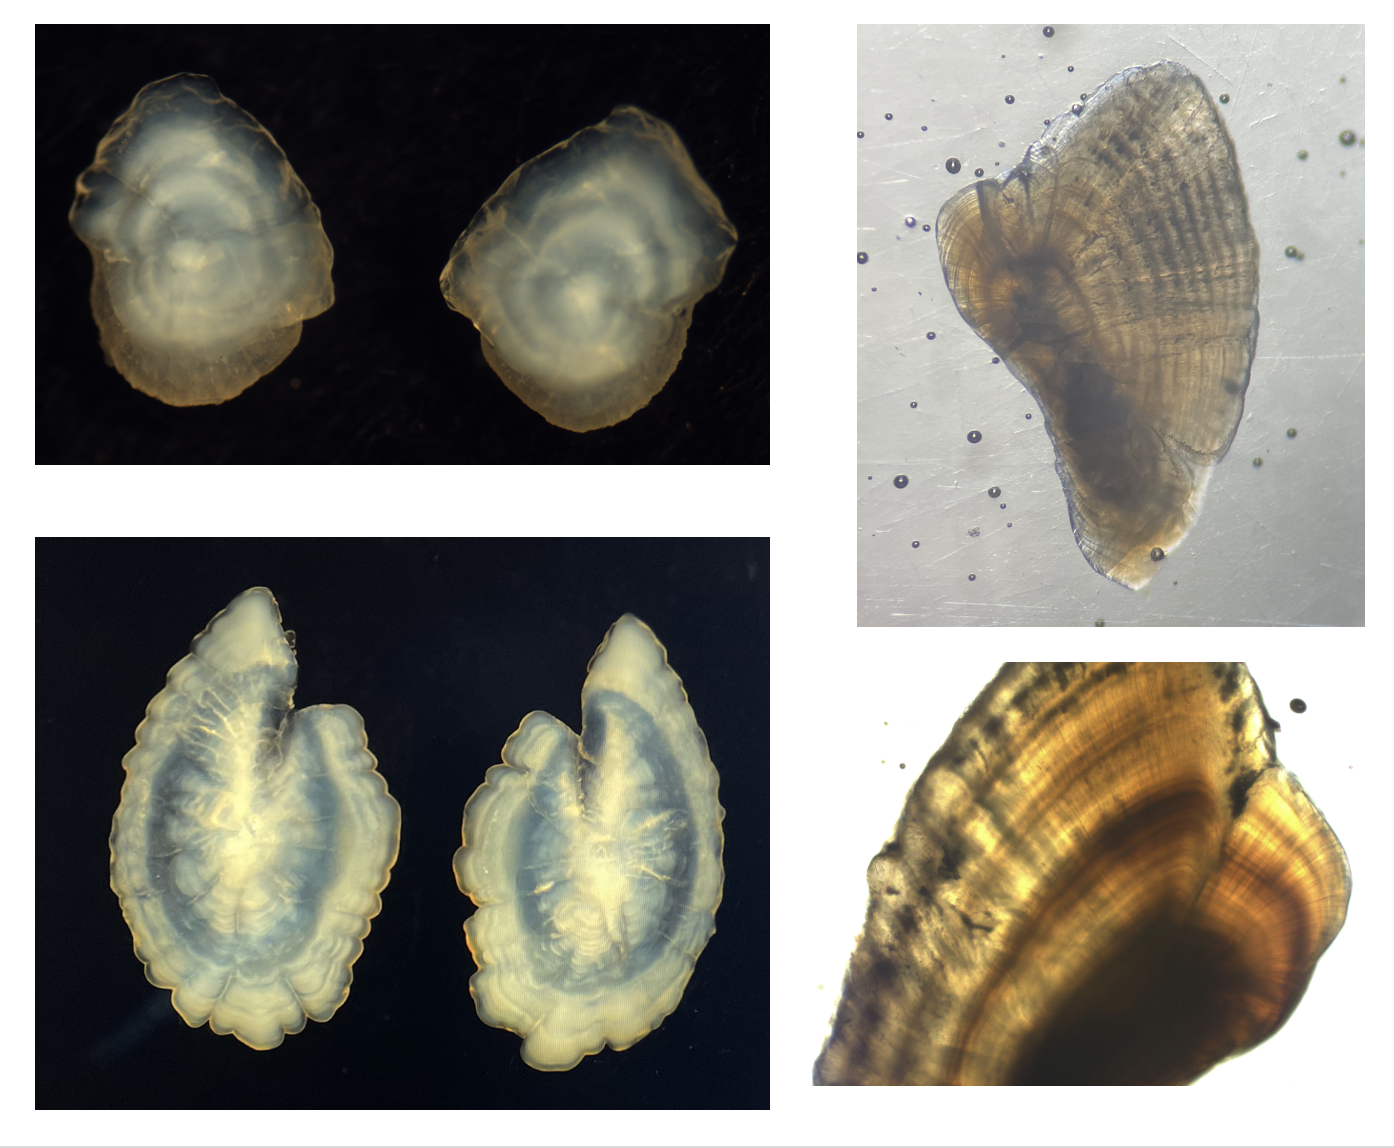
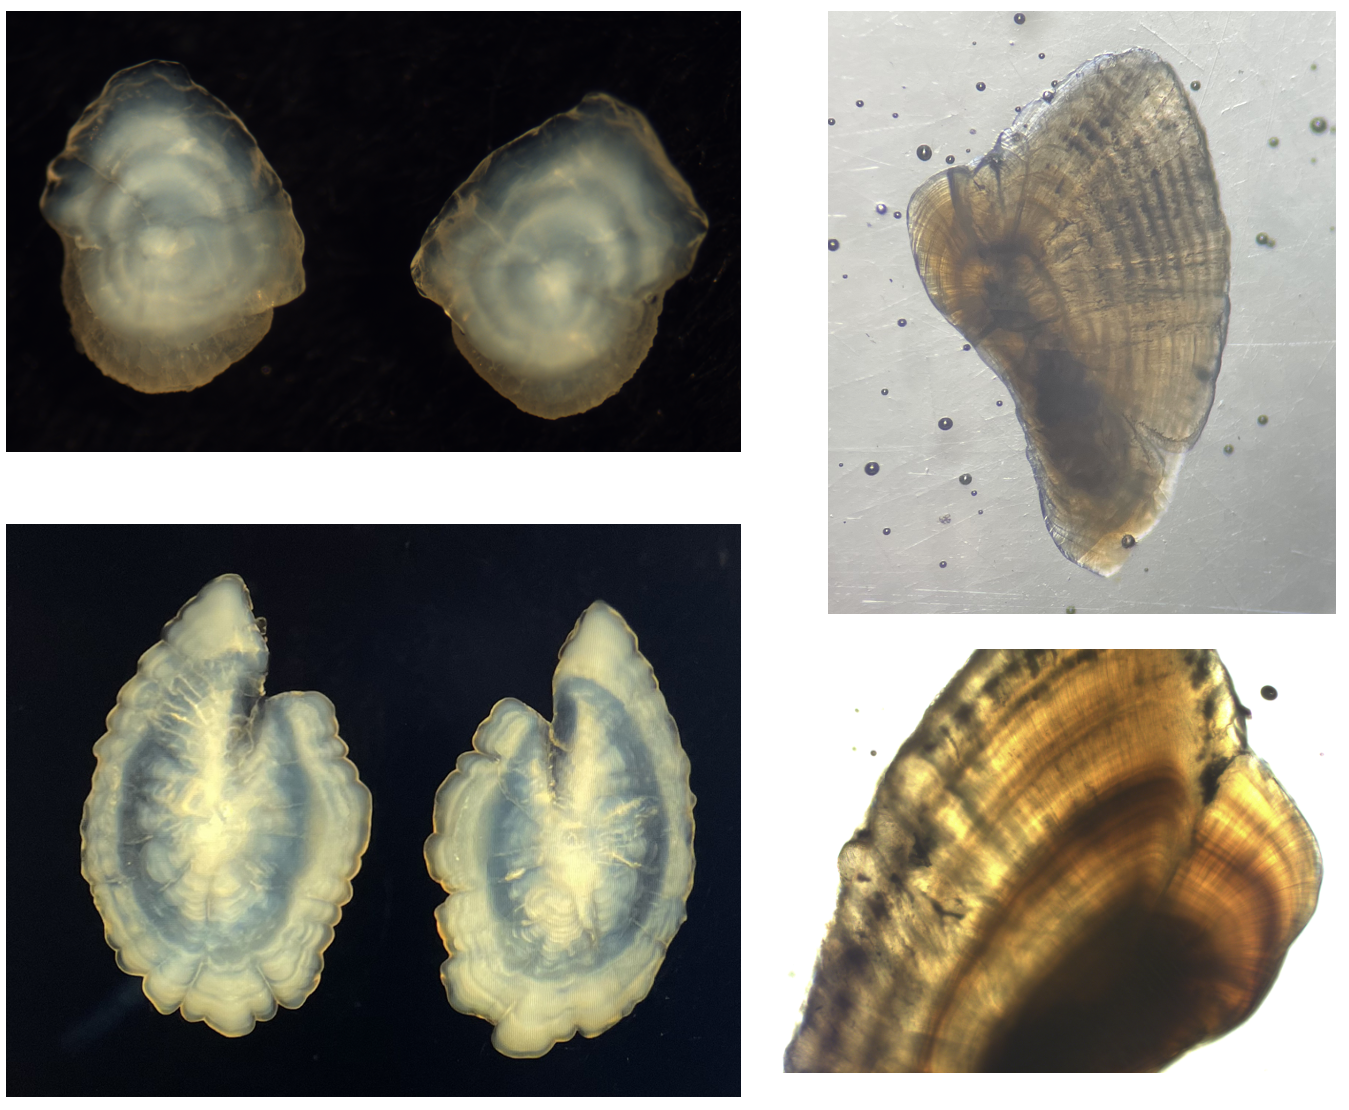
updated research

diff --git a/docs/research.html b/docs/research.html
@@ -2,12 +2,12 @@
 <html xmlns="http://www.w3.org/1999/xhtml" lang="en" xml:lang="en"><head>
 
 <meta charset="utf-8">
-<meta name="generator" content="quarto-1.4.552">
+<meta name="generator" content="quarto-1.6.42">
 
 <meta name="viewport" content="width=device-width, initial-scale=1.0, user-scalable=yes">
 
 
-<title>Jessica Diallo - Current Research</title>
+<title>Current Research – Jessica Diallo</title>
 <style>
 code{white-space: pre-wrap;}
 span.smallcaps{font-variant: small-caps;}
@@ -35,10 +35,10 @@ ul.task-list li input[type="checkbox"] {
 <script src="site_libs/quarto-html/tippy.umd.min.js"></script>
 <script src="site_libs/quarto-html/anchor.min.js"></script>
 <link href="site_libs/quarto-html/tippy.css" rel="stylesheet">
-<link href="site_libs/quarto-html/quarto-syntax-highlighting.css" rel="stylesheet" id="quarto-text-highlighting-styles">
+<link href="site_libs/quarto-html/quarto-syntax-highlighting-2f5df379a58b258e96c21c0638c20c03.css" rel="stylesheet" id="quarto-text-highlighting-styles">
 <script src="site_libs/bootstrap/bootstrap.min.js"></script>
 <link href="site_libs/bootstrap/bootstrap-icons.css" rel="stylesheet">
-<link href="site_libs/bootstrap/bootstrap.min.css" rel="stylesheet" id="quarto-bootstrap" data-mode="light">
+<link href="site_libs/bootstrap/bootstrap-7ad6542725e80d1433b1f8ee26c2a1fc.min.css" rel="stylesheet" append-hash="true" id="quarto-bootstrap" data-mode="light">
 <script id="quarto-search-options" type="application/json">{
   "location": "navbar",
   "copy-button": false,
@@ -83,7 +83,7 @@ ul.task-list li input[type="checkbox"] {
     </a>
   </div>
             <div id="quarto-search" class="" title="Search"></div>
-          <button class="navbar-toggler" type="button" data-bs-toggle="collapse" data-bs-target="#navbarCollapse" aria-controls="navbarCollapse" aria-expanded="false" aria-label="Toggle navigation" onclick="if (window.quartoToggleHeadroom) { window.quartoToggleHeadroom(); }">
+          <button class="navbar-toggler" type="button" data-bs-toggle="collapse" data-bs-target="#navbarCollapse" aria-controls="navbarCollapse" role="menu" aria-expanded="false" aria-label="Toggle navigation" onclick="if (window.quartoToggleHeadroom) { window.quartoToggleHeadroom(); }">
   <span class="navbar-toggler-icon"></span>
 </button>
           <div class="collapse navbar-collapse" id="navbarCollapse">
@@ -102,7 +102,7 @@ ul.task-list li input[type="checkbox"] {
   </li>  
 </ul>
           </div> <!-- /navcollapse -->
-          <div class="quarto-navbar-tools">
+            <div class="quarto-navbar-tools">
 </div>
       </div> <!-- /container-fluid -->
     </nav>
@@ -118,6 +118,7 @@ ul.task-list li input[type="checkbox"] {
   <ul>
   <li><a href="#optimizing-control-of-a-freshwater-invader-in-time-and-space" id="toc-optimizing-control-of-a-freshwater-invader-in-time-and-space" class="nav-link active" data-scroll-target="#optimizing-control-of-a-freshwater-invader-in-time-and-space">Optimizing control of a freshwater invader in time and space</a></li>
   <li><a href="#fish-invaders-invoke-a-lifetime-of-trophic-change-in-native-desert-fishes" id="toc-fish-invaders-invoke-a-lifetime-of-trophic-change-in-native-desert-fishes" class="nav-link" data-scroll-target="#fish-invaders-invoke-a-lifetime-of-trophic-change-in-native-desert-fishes">Fish invaders invoke a lifetime of trophic change in native desert fishes</a></li>
+  <li><a href="#shifting-competition-throughout-ontogeny-between-invasive-and-native-stream-fishes" id="toc-shifting-competition-throughout-ontogeny-between-invasive-and-native-stream-fishes" class="nav-link" data-scroll-target="#shifting-competition-throughout-ontogeny-between-invasive-and-native-stream-fishes">Shifting competition throughout ontogeny between invasive and native stream fishes</a></li>
   <li><a href="#leveraging-pit-tag-data-to-better-understand-northern-pikeminnow-movement-in-the-columbia-river-basin" id="toc-leveraging-pit-tag-data-to-better-understand-northern-pikeminnow-movement-in-the-columbia-river-basin" class="nav-link" data-scroll-target="#leveraging-pit-tag-data-to-better-understand-northern-pikeminnow-movement-in-the-columbia-river-basin">Leveraging PIT tag data to better understand northern pikeminnow movement in the Columbia River Basin</a></li>
   </ul>
 </nav>
@@ -156,7 +157,7 @@ ul.task-list li input[type="checkbox"] {
 </section>
 <section id="fish-invaders-invoke-a-lifetime-of-trophic-change-in-native-desert-fishes" class="level1">
 <h1>Fish invaders invoke a lifetime of trophic change in native desert fishes</h1>
-<p><em>Manuscript in review</em></p>
+<p><em>Manuscript in press (Ecosphere)</em></p>
 <p>Co-author: Julian Olden</p>
 <p><a href="https://fish.uw.edu/2024/01/taking-a-deeper-look-using-fish-eye-lenses-to-explore-invasive-fish-impacts-on-native-fish-communities/">UW Research Spotlight</a></p>
 <p>Invasive fishes modify the structure and function of riverine food webs through their presence and competitive and predatory interactions with native fishes. The degree of trophic plasticity of native fishes at different life stages in response to invaders is unknown. This research provides insight into life-long trends in dietary isotope values using fish eye lenses that grow incrementally and are comprised of metabolically inert, proteinaceous tissue. The findings demonstrate significant shifts in 13C/12C and 15N/14N throughout an individual’s lifetime that vary ontogenetically and differ for native species in native-only versus mixed native-invasive fish assemblages. Trophic level generally increases throughout ontogeny, with native fishes in mixed assemblages displaced to a lower trophic position compared to native-only. Native fish conservation should consider how invasive fishes impact native fishes at multiple life stages, with implications for individual growth and population persistence.</p>
@@ -165,8 +166,19 @@ ul.task-list li input[type="checkbox"] {
 <p>Otoliths from captured fish were used to age the fish and link eye lens layers to fish age and points in time. This is possible using species-specific relationships between fish length and eye lens diameter, fish length and otolith diameter, as well as individual fish measurements of growth (age vs.&nbsp;fish length).</p>
 <p><img src="images/Otoliths.png" title="Otoliths" class="img-fluid"> <em>Roundtail chub lapillar otoliths (top left), green sunfish sagittal otoliths (bottom left), roundtail chub polished lapillar otoliths (top and bottom right). Otolith width ~ 2mm</em></p>
 </section>
+<section id="shifting-competition-throughout-ontogeny-between-invasive-and-native-stream-fishes" class="level1">
+<h1>Shifting competition throughout ontogeny between invasive and native stream fishes</h1>
+<p><em>Manuscript in preparation</em></p>
+<p>Co-author: Julian Olden</p>
+<p>Competition for shared resources within and between species is a powerful force in community ecology. Modern coexistence theory predicts that higher intra-specific, relative to inter-specific, competition results in species coexistence because competitors are self-limiting. However, resource use is rarely constant across animal development; many species experience ontogenetic dietary shifts. Therefore, relative strengths of competition may change throughout ontogeny, leading to a reversal in competitive superiority between two species. Invasive species are often superior competitors due to their generalist feeding habits and high rates of resource exploitation. To quantify competition through ontogeny between invasive and native fishes, we measured isotopic niche overlap of individual lifetime trophic trajectories constructed using fish eye lens stable isotope analysis coupled with otolith growth measurements. We found that invasive green sunfish (Lepomis cyanellus) experienced higher intra-specific isotopic niche overlap through ontogeny relative to inter-specific overlap with three native fish species (Gila robusta, Catostomus insignis, Catostomus clarkii) in Burro Creek, Arizona. These native fish species experienced the highest isotopic niche overlap with green sunfish, known to be a superior competitor. The degree of competition experienced by native species increased through ontogeny, while invasive green sunfish were freed from high interspecific competition at older ages. Our results demonstrate that the coexistence in mixed native-nonnative communities is supported by modern coexistence theory. As invasive species continue to spread and proliferate, contemporary ecological communities are increasingly being managed for coexistence, rather than invader eradication. Understanding how relative competition transforms through ontogeny supports coexistence conservation in native-nonnative communities.</p>
+<p><img src="images/Otolith-eye-combo.jpg" title="Combining otoliths and eyes" class="img-fluid"></p>
+<p><em>Diagram of whole (left) and cross-sectioned (right) green sunfish otolith (top) and eye lens (bottom). Otolith annuli are labeled 1-3 for each year of fish age and growth. Eye lens layers are labeled from the core (1) representing early ontogeny to the outer layer (5) representing activity prior to capture. When processed for δ13C and δ15N stable isotope analysis, the sequence of eye lens layers provide a lifetime trophic trajectory of an individual fish. This is combined with otolith aging measurements to link stable isotope values to fish age. Fish illustration by Duane Raver (Public domain, U.S. Fish and Wildlife Service National Digital Library). Otolith image and all other illustrations by Jessica Diallo.</em></p>
+<p><img src="images/LECY-GIRO_heatmap.jpg" title="Competitive interaction surface" class="img-fluid"></p>
+<p><em>Competitive interaction surface displaying isotopic distance across the lifetimes of focal species roundtail chub (x-axis) and competitor green sunfish (y-axis). Isotopic distance is defined as the squared Mahalanobis distance (D^2), which measures the distance from an individual point to the centroid of the competitor’s isotopic niche in C-N biplot space. Interaction squares represent a month of time and are outlined a shade of grey representing significant niche overlap, or the proportion of the focal species individuals that significantly overlap with the competitor’s isotopic niche based on a chi-square distribution.</em></p>
+</section>
 <section id="leveraging-pit-tag-data-to-better-understand-northern-pikeminnow-movement-in-the-columbia-river-basin" class="level1">
 <h1>Leveraging PIT tag data to better understand northern pikeminnow movement in the Columbia River Basin</h1>
+<p><em>Manuscript in preparation</em></p>
 <p>Co-authors: Beth Sanderson<sup>1</sup>, Katie Barnas<sup>1</sup>, Jim Faulkner<sup>1</sup>, Grant Waltz<sup>2</sup>, Eric Winther<sup>3</sup>, and Julian Olden<sup>4</sup><br>
 1: NOAA Northwest Fisheries Science Center<br>
 2: Oregon Department of Fish and Wildlife<br>
@@ -219,18 +231,7 @@ window.document.addEventListener("DOMContentLoaded", function (event) {
     }
     return false;
   }
-  const clipboard = new window.ClipboardJS('.code-copy-button', {
-    text: function(trigger) {
-      const codeEl = trigger.previousElementSibling.cloneNode(true);
-      for (const childEl of codeEl.children) {
-        if (isCodeAnnotation(childEl)) {
-          childEl.remove();
-        }
-      }
-      return codeEl.innerText;
-    }
-  });
-  clipboard.on('success', function(e) {
+  const onCopySuccess = function(e) {
     // button target
     const button = e.trigger;
     // don't keep focus
@@ -262,7 +263,27 @@ window.document.addEventListener("DOMContentLoaded", function (event) {
     }, 1000);
     // clear code selection
     e.clearSelection();
+  }
+  const getTextToCopy = function(trigger) {
+      const codeEl = trigger.previousElementSibling.cloneNode(true);
+      for (const childEl of codeEl.children) {
+        if (isCodeAnnotation(childEl)) {
+          childEl.remove();
+        }
+      }
+      return codeEl.innerText;
+  }
+  const clipboard = new window.ClipboardJS('.code-copy-button:not([data-in-quarto-modal])', {
+    text: getTextToCopy
   });
+  clipboard.on('success', onCopySuccess);
+  if (window.document.getElementById('quarto-embedded-source-code-modal')) {
+    const clipboardModal = new window.ClipboardJS('.code-copy-button[data-in-quarto-modal]', {
+      text: getTextToCopy,
+      container: window.document.getElementById('quarto-embedded-source-code-modal')
+    });
+    clipboardModal.on('success', onCopySuccess);
+  }
     var localhostRegex = new RegExp(/^(?:http|https):\/\/localhost\:?[0-9]*\//);
     var mailtoRegex = new RegExp(/^mailto:/);
       var filterRegex = new RegExp('/' + window.location.host + '/');
@@ -270,7 +291,7 @@ window.document.addEventListener("DOMContentLoaded", function (event) {
         return filterRegex.test(href) || localhostRegex.test(href) || mailtoRegex.test(href);
     }
     // Inspect non-navigation links and adorn them if external
- 	var links = window.document.querySelectorAll('a[href]:not(.nav-link):not(.navbar-brand):not(.toc-action):not(.sidebar-link):not(.sidebar-item-toggle):not(.pagination-link):not(.no-external):not([aria-hidden]):not(.dropdown-item):not(.quarto-navigation-tool)');
+ 	var links = window.document.querySelectorAll('a[href]:not(.nav-link):not(.navbar-brand):not(.toc-action):not(.sidebar-link):not(.sidebar-item-toggle):not(.pagination-link):not(.no-external):not([aria-hidden]):not(.dropdown-item):not(.quarto-navigation-tool):not(.about-link)');
     for (var i=0; i<links.length; i++) {
       const link = links[i];
       if (!isInternal(link.href)) {
@@ -367,7 +388,6 @@ window.document.addEventListener("DOMContentLoaded", function (event) {
       if (window.Quarto?.typesetMath) {
         window.Quarto.typesetMath(note);
       }
-      // TODO in 1.5, we should make sure this works without a callout special case
       if (note.classList.contains("callout")) {
         return note.outerHTML;
       } else {
